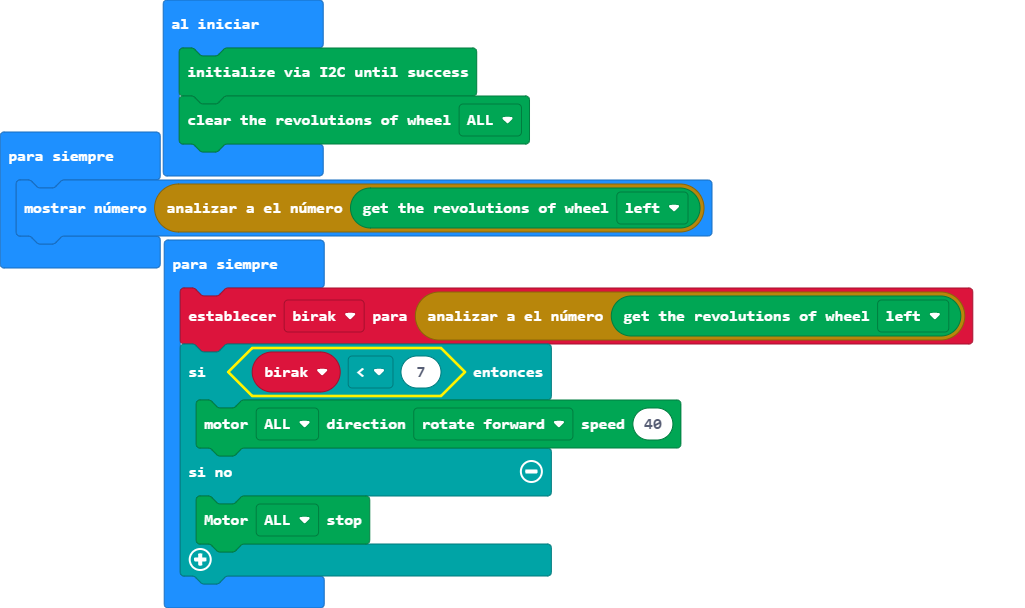
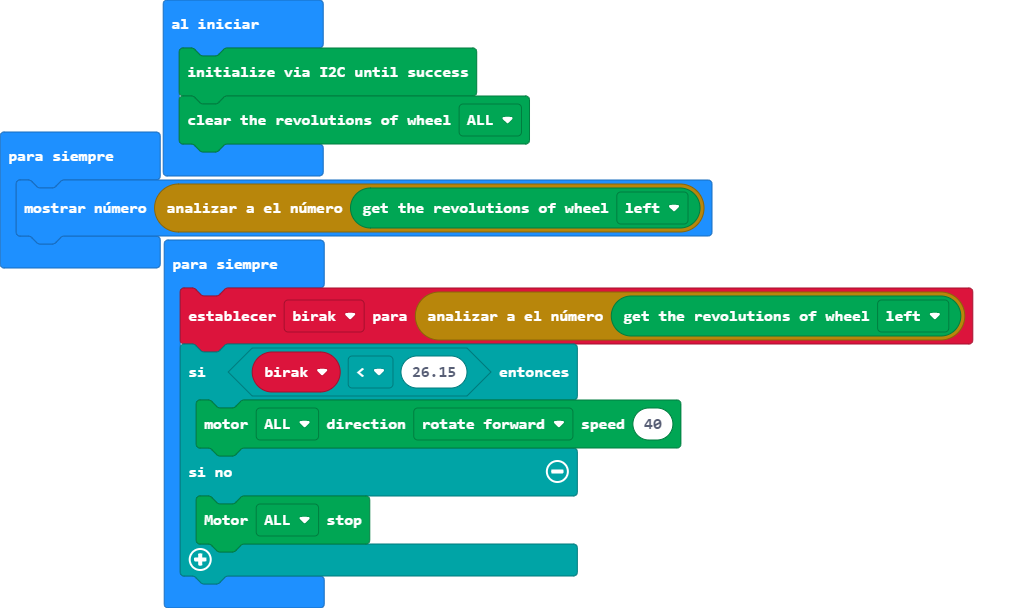
Actualizar main.blocks, main.ts

Changed region(s): [[0.2185, 0.5625, 0.562, 0.6562], [0.4995, 0.7188, 0.562, 0.8438], [0.5307, 0.875, 0.562, 0.9688]]

diff --git a/main.ts b/main.ts
@@ -6,7 +6,7 @@ basic.forever(function () {
 })
 basic.forever(function () {
     birak = parseFloat(DFRobotMaqueenPlus.readeDistance(Motors1.M1))
-    if (birak < 7) {
+    if (birak < 26.15) {
         DFRobotMaqueenPlus.mototRun(Motors.ALL, Dir.CW, 40)
     } else {
         DFRobotMaqueenPlus.mototStop(Motors.ALL)
